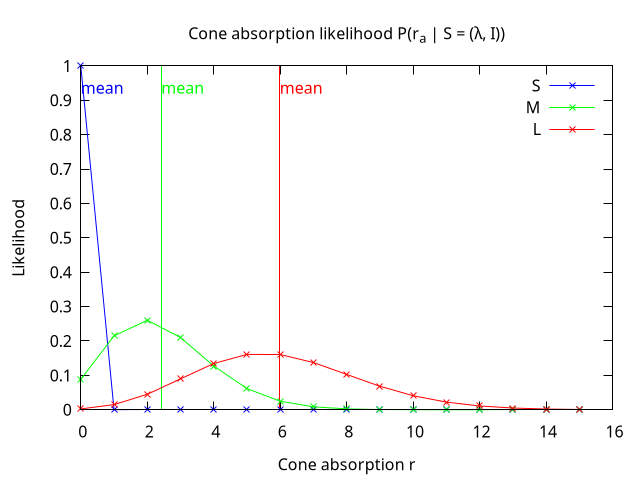
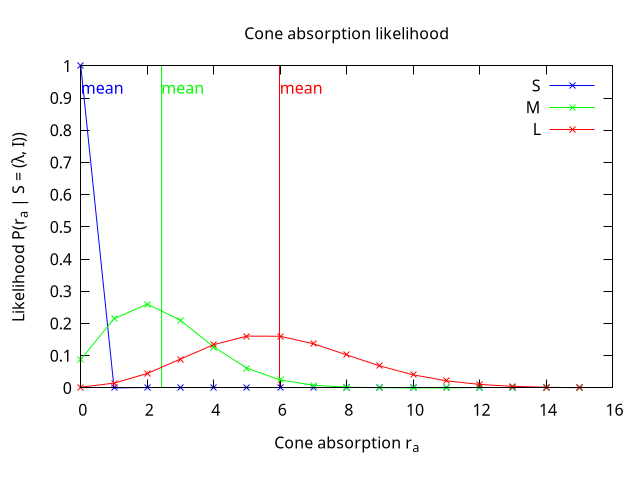
small changes

Changed region(s): [[0.0, 0.25, 0.9688, 1.0], [0.2812, 0.0625, 0.7812, 0.0938], [0.0625, 0.1875, 0.1562, 0.2188]]

diff --git a/src/homework_4.rs b/src/homework_4.rs
@@ -97,9 +97,9 @@ pub fn run() {
 
     // A
     writeln!(stdin,"set output \"homework_4_A_cone_sensitivity_spectrum.png\"").unwrap();
-    writeln!(stdin, "set title \"Cone sensitivity spectrum \u{1D453}_\u{1D44E}({{/Symbol l}})\"").unwrap();
+    writeln!(stdin, "set title \"Cone sensitivity spectrum\"").unwrap();
     writeln!(stdin, "set xlabel \"Wavelength {{/Symbol l}} (nm)\"").unwrap();
-    writeln!(stdin, "set ylabel \"Cone sensitivity\"").unwrap();
+    writeln!(stdin, "set ylabel \"Cone sensitivity f_a({{/Symbol l}})\"").unwrap();
     writeln!(stdin, "set logscale y").unwrap();
     writeln!(stdin, "set format y \"10^{{%L}}\"").unwrap();
     write!(stdin, "plot").unwrap();
@@ -129,19 +129,7 @@ pub fn run() {
     let x_values = (0usize..=15usize).collect::<Vec<_>>();
     let mut cone_values = Vec::with_capacity(cones.len());
 
-    //// sanity check
-    //// https://commons.wikimedia.org/wiki/File:Poisson_pmf.svg
-    //for lambda in [1, 4, 10] {
-    //    let mut y_values = Vec::with_capacity(x_values.len());
-    //    for &x in x_values.iter() {
-    //        let y = poisson_distribution(lambda as f64, x);
-    //        y_values.push(y);
-    //    }
-    //    cone_values.push(y_values);
-    //}
-
     let mut lambdas = Vec::with_capacity(cones.len());
-
     for &cone in cones.iter() {
         let mut y_values = Vec::with_capacity(x_values.len());
 
@@ -159,9 +147,9 @@ pub fn run() {
     }
 
     writeln!(stdin,"set output \"homework_4_B_cone_absorption_likelihood.png\"").unwrap();
-    writeln!(stdin, "set title \"Cone absorption likelihood P(r_a | S = ({{/Symbol l}}, I))\"").unwrap();
-    writeln!(stdin, "set xlabel \"Cone absorption r\"").unwrap();
-    writeln!(stdin, "set ylabel \"Likelihood\"").unwrap();
+    writeln!(stdin, "set title \"Cone absorption likelihood\"").unwrap();
+    writeln!(stdin, "set xlabel \"Cone absorption r_a\"").unwrap();
+    writeln!(stdin, "set ylabel \"Likelihood P(r_a | S = ({{/Symbol l}}, I))\"").unwrap();
     writeln!(stdin, "unset logscale y").unwrap();
     writeln!(stdin, "set format y").unwrap();
 